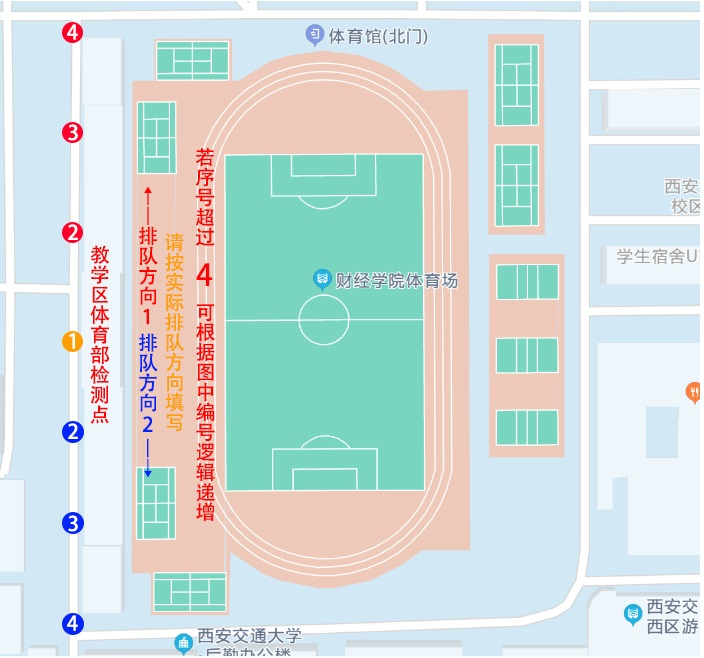
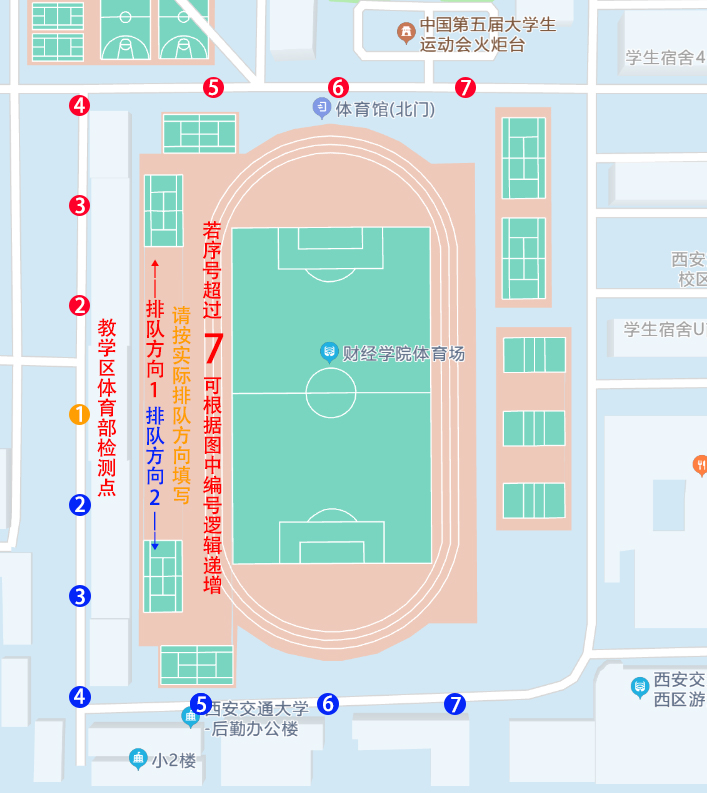
[feature] add img

diff --git a/pages/map/map.js b/pages/map/map.js
@@ -7,7 +7,7 @@ Page({
     data: {
         list:[],
         type:1,
-        area:{"1":'兴庆校区-宪梓堂', "2":'雁塔校区-生活区',"3":'雁塔校区-教学区体育部'},
+        area:{"1":'兴庆校区-宪梓堂', "2":'雁塔校区-生活区',"3":'雁塔校区-教学区体育部',"4":'兴庆校区-体育中心'},
     },
 
     /**
@@ -108,7 +108,7 @@ Page({
     change_area:function(){
       var that = this;
       wx.showActionSheet({
-        itemList: ['兴庆校区-宪梓堂', '雁塔校区-生活区','雁塔校区-教学区体育部'],
+        itemList: ['兴庆校区-宪梓堂', '雁塔校区-生活区','雁塔校区-教学区体育部','兴庆校区-体育中心'],
         success(res){
           that.setData({
             type:res.tapIndex+1,

diff --git a/pages/submit/submit.js b/pages/submit/submit.js
@@ -5,9 +5,9 @@ Page({
      * 页面的初始数据
      */
     data: {
-        area:["兴庆校区-宪梓堂","雁塔校区-生活区","雁塔校区-教学区体育部"],
+        area:["兴庆校区-宪梓堂","雁塔校区-生活区","雁塔校区-教学区体育部","兴庆校区-体育中心"],
         area_index:0,
-        time:["小于5分钟","10分钟","20分钟","30分钟","45分钟","约1小时","大于1小时","暂未开放","暂停检测","已结束"],
+        time:["小于5分钟","10分钟","20分钟","30分钟","45分钟","约1小时","约1.5小时","大于2小时","暂未开放","暂停检测","已结束"],
         time_index:0,
         place:["1","2","3","4","5","6","7","8","9","10","11","12","13"],
         place_index:0,
